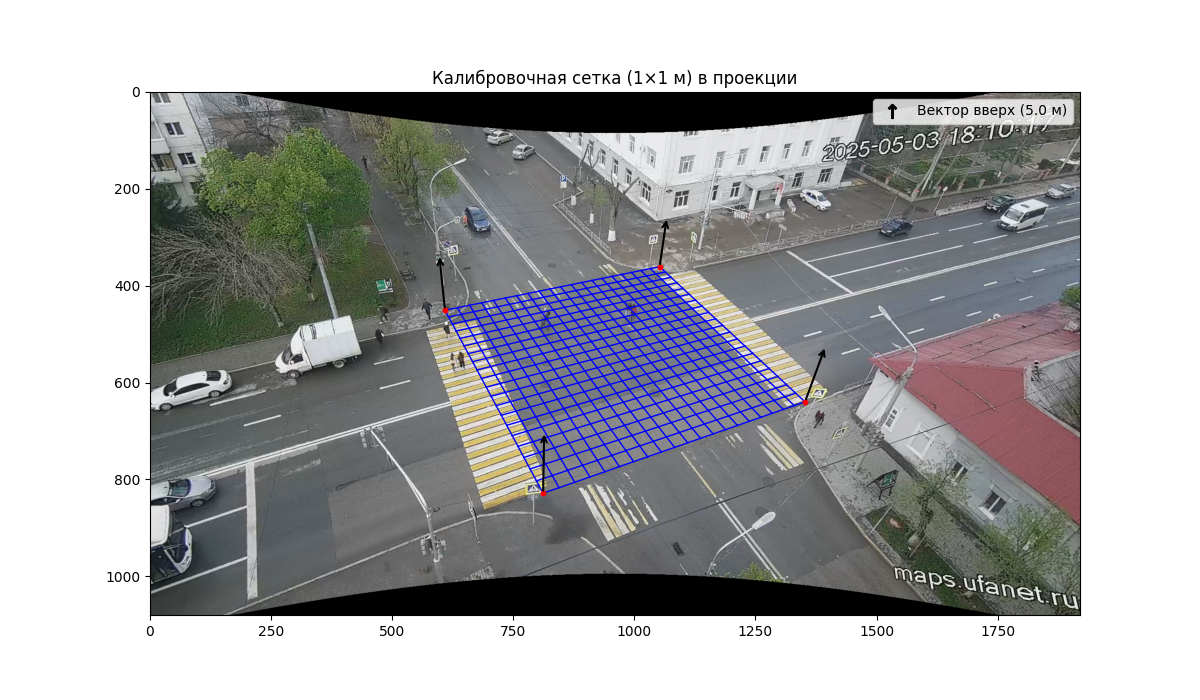
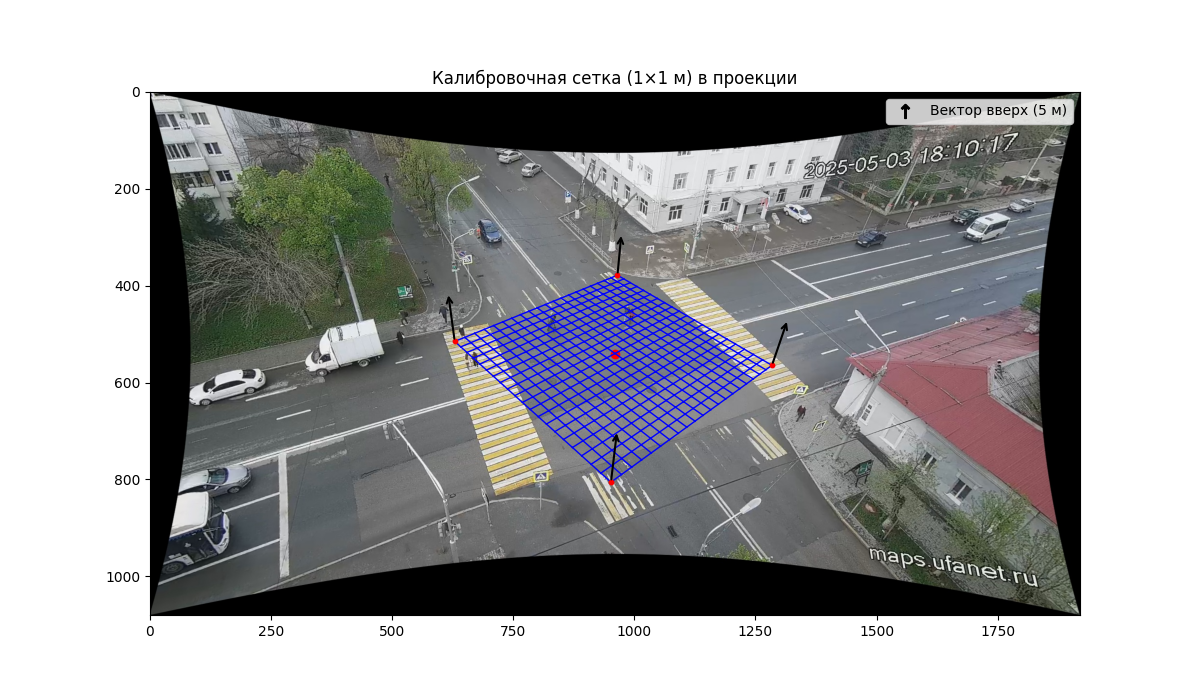
Все класс на одном перекрестке

Changed region(s): [[0.1233, 0.12, 0.925, 0.9], [0.2775, 0.72, 0.3083, 0.75]]

diff --git a/example/pushkin_aksakov/direct.html b/example/pushkin_aksakov/direct.html
@@ -10,61 +10,61 @@
 <script>
 ymaps.ready(function () {
     var myMap = new ymaps.Map("map", {
-        center: [54.72382775, 55.9335835],
+        center: [54.723829, 55.933581499999995],
         zoom: 18
     });
 
     
-        myMap.geoObjects.add(new ymaps.Placemark([54.72376, 55.933338], {
+        myMap.geoObjects.add(new ymaps.Placemark([54.72376, 55.933336], {
             balloonContent: "📍 Исходная точка 1",
             hintContent: "📍 Исходная точка 1"
         }, {
             preset: "islands#greenDotIcon"
         }));
 
-        myMap.geoObjects.add(new ymaps.Placemark([54.723752021530395, 55.93334075604317], {
+        myMap.geoObjects.add(new ymaps.Placemark([54.72376009798566, 55.93333735404231], {
             balloonContent: "🎯 Спроецированная точка 1",
             hintContent: "🎯 Спроецированная точка 1"
         }, {
             preset: "islands#blueDotIcon"
         }));
         
-        myMap.geoObjects.add(new ymaps.Placemark([54.72399, 55.933488], {
+        myMap.geoObjects.add(new ymaps.Placemark([54.723664, 55.933641], {
             balloonContent: "📍 Исходная точка 2",
             hintContent: "📍 Исходная точка 2"
         }, {
             preset: "islands#greenDotIcon"
         }));
 
-        myMap.geoObjects.add(new ymaps.Placemark([54.723976145914044, 55.9334889307624], {
+        myMap.geoObjects.add(new ymaps.Placemark([54.72366521792066, 55.93362978025919], {
             balloonContent: "🎯 Спроецированная точка 2",
             hintContent: "🎯 Спроецированная точка 2"
         }, {
             preset: "islands#blueDotIcon"
         }));
         
-        myMap.geoObjects.add(new ymaps.Placemark([54.723896, 55.933864], {
+        myMap.geoObjects.add(new ymaps.Placemark([54.723988, 55.933481], {
             balloonContent: "📍 Исходная точка 3",
             hintContent: "📍 Исходная точка 3"
         }, {
             preset: "islands#greenDotIcon"
         }));
 
-        myMap.geoObjects.add(new ymaps.Placemark([54.72389225671881, 55.933892227150594], {
+        myMap.geoObjects.add(new ymaps.Placemark([54.723984163771874, 55.93347861603869], {
             balloonContent: "🎯 Спроецированная точка 3",
             hintContent: "🎯 Спроецированная точка 3"
         }, {
             preset: "islands#blueDotIcon"
         }));
         
-        myMap.geoObjects.add(new ymaps.Placemark([54.723665, 55.933644], {
+        myMap.geoObjects.add(new ymaps.Placemark([54.723904, 55.933868], {
             balloonContent: "📍 Исходная точка 4",
             hintContent: "📍 Исходная точка 4"
         }, {
             preset: "islands#greenDotIcon"
         }));
 
-        myMap.geoObjects.add(new ymaps.Placemark([54.7236533612683, 55.9336462312265], {
+        myMap.geoObjects.add(new ymaps.Placemark([54.723902829914124, 55.93387291213784], {
             balloonContent: "🎯 Спроецированная точка 4",
             hintContent: "🎯 Спроецированная точка 4"
         }, {
@@ -74,8 +74,8 @@ ymaps.ready(function () {
 
     
         myMap.geoObjects.add(new ymaps.Polyline([
-            [54.72376, 55.933338],
-            [54.723752021530395, 55.93334075604317]
+            [54.72376, 55.933336],
+            [54.72376009798566, 55.93333735404231]
         ], {
             hintContent: "Вектор ошибки"
         }, {
@@ -85,8 +85,8 @@ ymaps.ready(function () {
         }));
         
         myMap.geoObjects.add(new ymaps.Polyline([
-            [54.72399, 55.933488],
-            [54.723976145914044, 55.9334889307624]
+            [54.723664, 55.933641],
+            [54.72366521792066, 55.93362978025919]
         ], {
             hintContent: "Вектор ошибки"
         }, {
@@ -96,8 +96,8 @@ ymaps.ready(function () {
         }));
         
         myMap.geoObjects.add(new ymaps.Polyline([
-            [54.723896, 55.933864],
-            [54.72389225671881, 55.933892227150594]
+            [54.723988, 55.933481],
+            [54.723984163771874, 55.93347861603869]
         ], {
             hintContent: "Вектор ошибки"
         }, {
@@ -107,8 +107,8 @@ ymaps.ready(function () {
         }));
         
         myMap.geoObjects.add(new ymaps.Polyline([
-            [54.723665, 55.933644],
-            [54.7236533612683, 55.9336462312265]
+            [54.723904, 55.933868],
+            [54.723902829914124, 55.93387291213784]
         ], {
             hintContent: "Вектор ошибки"
         }, {

diff --git a/example/synthetic/main.py b/example/synthetic/main.py
@@ -775,57 +775,6 @@ pipeline = CalibrationPipeline(
 pipeline.run(camera=camera_new, data=data_direct_optimize)
 
 from source.calibration.base import RESUALDS
-
-
-def plot_residuals_comparison(RESUALDS):
-    """
-    Строит график сравнения остатков на первом и последнем шаге оптимизации.
-    RESUALDS — словарь вида: {step_num: {'metric_name': [values], ...}, ...}
-    """
-    fig, ax = plt.subplots(figsize=(12, 5))
-
-    step_start = 1
-    step_end = max(RESUALDS)
-
-    x_offset = 0
-    xticks = []
-    xticklabels = []
-
-    keys = list(RESUALDS[step_start].keys())
-
-    for i, key in enumerate(keys):
-        y_start = RESUALDS[step_start][key]
-        y_end = RESUALDS[step_end][key]
-        n = len(y_start)
-        x_range = np.arange(n) + x_offset
-
-        # Графики для текущей метрики
-        ax.plot(x_range, y_start, 'o-', label=f'{key} (step 1)')
-        ax.plot(x_range, y_end, 's--', label=f'{key} (step last)')
-
-        # Оформление оси X
-        xticks.extend(x_range)
-        short_key = key.replace('point_to_point', 'p') \
-            .replace('line_length', 'len') \
-            .replace('dist_betweeen_line_1', 'd1') \
-            .replace('dist_betweeen_line_2', 'd2')
-        xticklabels.extend([f'{short_key}{j}' for j in range(n)])
-
-        # Вертикальная линия-раздел
-        if i < len(keys) - 1:
-            ax.axvline(x_range[-1] + 0.5, color='gray', linestyle='--')
-
-        x_offset += n
-
-    ax.set_xticks(xticks)
-    ax.set_xticklabels(xticklabels, rotation=45, ha='right')
-
-    ax.set_ylabel("Residual value")
-    ax.set_title("Сравнение остатков на первом и последнем шаге")
-    ax.legend()
-    ax.grid(True)
-
-    plt.tight_layout()
-    plt.show()
+from calibration.debug import plot_residuals_comparison
 
 plot_residuals_comparison(RESUALDS)

diff --git a/source/annotation_tools/data_markup_tool.py b/source/annotation_tools/data_markup_tool.py
@@ -13,26 +13,26 @@ from PyQt5.QtGui import QMouseEvent
 from PyQt5.QtGui import QColor
 
 PALETTE = [
-    "#e6194b",  # красный
-    "#3cb44b",  # зелёный
-    "#ffe119",  # жёлтый
-    "#4363d8",  # синий
+    "#e6194b",  # насыщенный красный
+    "#3cb44b",  # яркий зелёный
+    "#ffe119",  # яркий жёлтый
+    "#4363d8",  # глубокий синий
     "#f58231",  # оранжевый
     "#911eb4",  # фиолетовый
-    "#46f0f0",  # бирюзовый
-    "#f032e6",  # розовый
-    "#bcf60c",  # салатовый
-    "#fabebe",  # светло-розовый
+    "#00ced1",  # насыщенный бирюзовый
+    "#f032e6",  # фуксия
+    "#aaff00",  # ядовито-салатовый
+    "#ff1493",  # тёмно-розовый
     "#008080",  # тёмная бирюза
-    "#e6beff",  # сиреневый
-    "#9a6324",  # коричневый
-    "#fffac8",  # бледно-жёлтый
+    "#6a5acd",  # индиго
+    "#8b4513",  # насыщенный коричневый
+    "#ff4500",  # красно-оранжевый
     "#800000",  # бордовый
-    "#aaffc3",  # мятный
+    "#00ff7f",  # неоново-зелёный
     "#808000",  # оливковый
-    "#ffd8b1",  # персиковый
-    "#000075",  # тёмно-синий
-    "#808080"  # серый
+    "#ff8c00",  # тёмно-оранжевый
+    "#00008b",  # тёмно-синий
+    "#000000",  # чёрный
 ]
 
 

diff --git a/source/calibration/debug/debug_metrics.py b/source/calibration/debug/debug_metrics.py
@@ -63,8 +63,8 @@ def compute_alignment_and_metrics(
     # Подсчёт ошибок (в ENU)
     errors = [
         np.linalg.norm(
-            np.array(R @ predict) -
-            # np.array( predict) -
+            # np.array(R @ predict) -
+            np.array( predict) -
             np.array(ideal)
         )
         for predict, ideal in zip(points_cam, points_enu)
@@ -82,7 +82,8 @@ def compute_alignment_and_metrics(
     for name, value in stats.items():
         print(f"  ▸ {name:<24} {value:.2f} м")
 
-    point_gps_predict = [enu_to_gps(*R @ point, lat0, lon0) for point in points_cam]
+    # point_gps_predict = [enu_to_gps(*R @ point, lat0, lon0) for point in points_cam]
+    point_gps_predict = [enu_to_gps(*point, lat0, lon0) for point in points_cam]
 
     # url =generate_yandex_maps_url(point_gps_predict)
     # print(f'URL YANDEX {url}')

diff --git a/example/pushkin_aksakov/example.py b/example/pushkin_aksakov/example.py
@@ -11,15 +11,6 @@ from calibration.debug import compute_alignment_and_metrics
 
 camera = Camera('image/undistorted_output_one.jpg')
 
-# vp1 = [3974.185, -248.69977]
-# vp2 = [768.4042, 2362.912]
-# vp3 = [-24.940735, -669.0249]
-# vps_auto = np.array([vp1, vp3, vp2])
-
-# Набор найденный через RANSAK
-# vp1_new = [3.535e+03, -1.270e+02]
-# vp2_new = [164.36434109, -476.74418605]
-# vps_auto_new = np.array([vp1_new, vp2_new])
 
 annotation_parser = AnnotationParser("marked/data_full.json")
 lines_vp1 = annotation_parser.get_lines_by_class("vp1")

diff --git a/source/calibration/debug/__init__.py b/source/calibration/debug/__init__.py
@@ -3,6 +3,7 @@ from .debug_scene import visualize_grid_debug, load_scene_gps, visualize_grid_gp
 from .debug_source import visualize_source
 from .debug_metrics import estimate_rotation_svd, generate_yandex_maps_url, compute_alignment_and_metrics
 from .debud_projection import projection_line
+from .debug_refine import plot_residuals_comparison
 
 __all__ = [
     "visualize_vps_debug",
@@ -14,4 +15,5 @@ __all__ = [
     "estimate_rotation_svd",
     "generate_yandex_maps_url",
     "compute_alignment_and_metrics",
+    "plot_residuals_comparison"
     ]

diff --git a/source/calibration/debug/debug_scene.py b/source/calibration/debug/debug_scene.py
@@ -16,7 +16,7 @@ def visualize_grid_debug(
         grid_range_x: float = 5.0,  # диапазон по X (влево/вправо от центра)
         grid_range_y: float = 5.0,  # диапазон по Y (вперёд/назад от центра)
         grid_step: float = 1.0,     # размер клетки
-        arrow_len: float = 15.0,    # длина вектора "вверх"
+        arrow_len: float = 5,    # длина вектора "вверх"
         plane_z: float = 0.0,
         save_path=None
 ):
